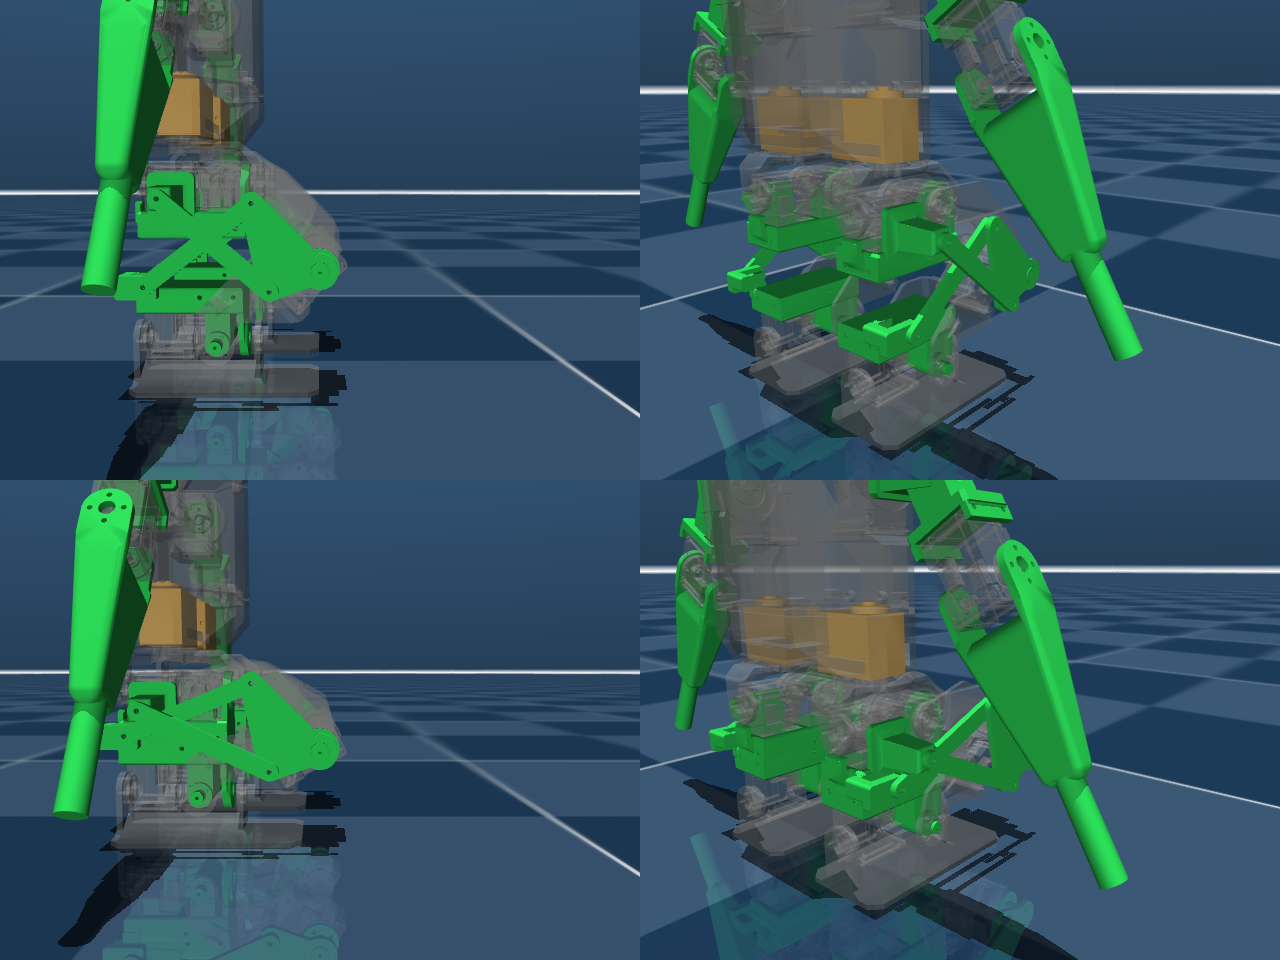
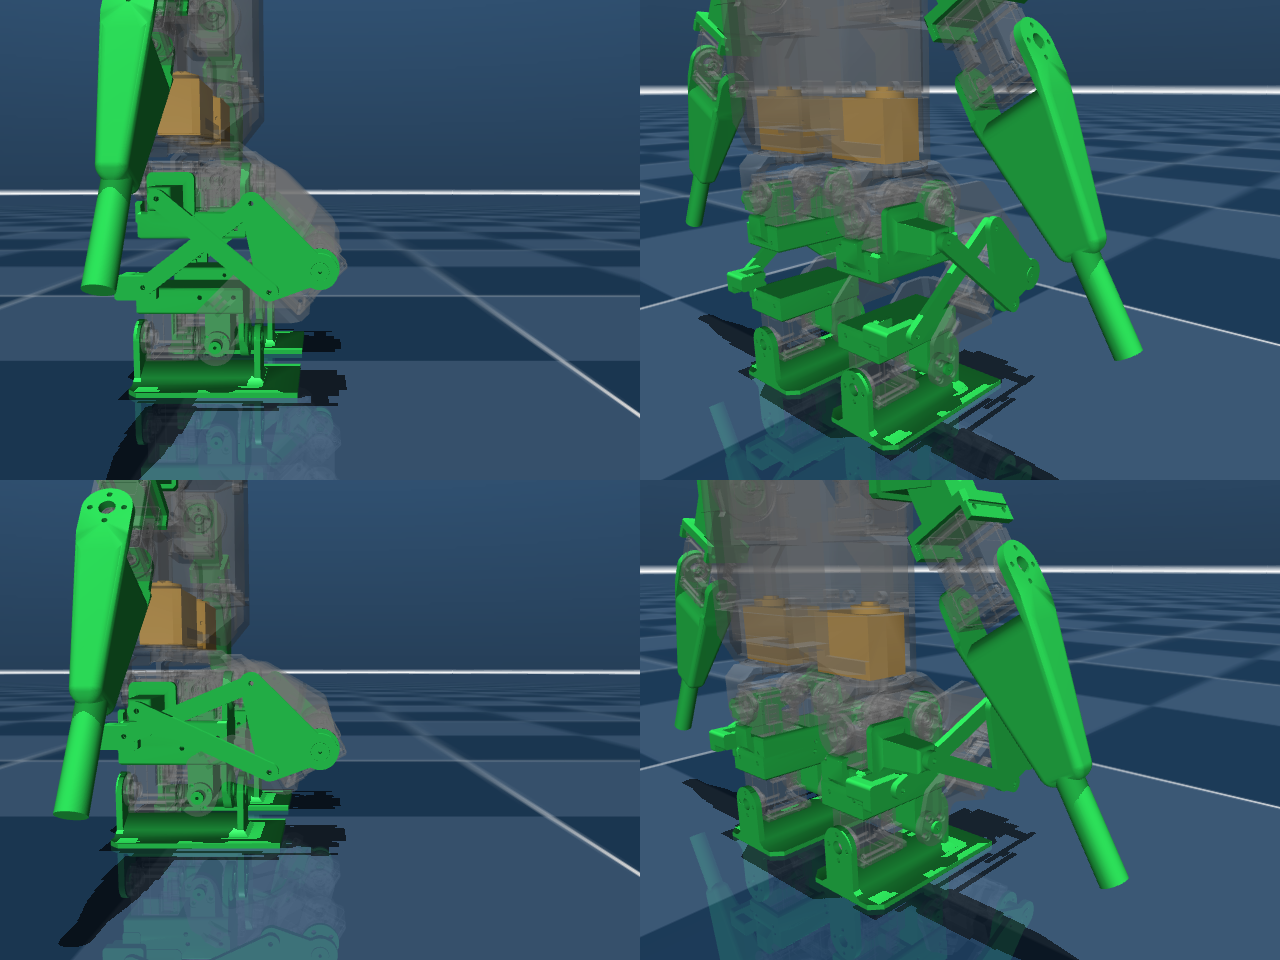
Draw the shortened foot in green
With --parts the foot mesh is swapped for parts_derived/foot_sole80 (the toe
cut to an 80 mm contact length), so the changed part shows green like every
other new or modified part; the mesh matches the cut collision plates
(x -26..54 mm in the foot frame). Docs and preview images updated.

diff --git a/tools/make_microban_pl.py b/tools/make_microban_pl.py
@@ -234,8 +234,8 @@ def main():
     PART_MESHES = ("thigh_bar", "shank_bar", "knee_yoke_right", "knee_yoke_left", "knee_axle_cap",
                    "xl330_dummy_shoulder_roll_right", "xl330_dummy_shoulder_roll_left", "xl330_dummy_neck", "xl330_dummy_hip_yaw", "xl330_dummy_ankle_hinge")
     PART_MESHES += ("shoulder_arm_simple_right", "shoulder_arm_simple_left")
-    DERIVED_MESHES = ("ankle_block_integrated_right", "ankle_block_integrated_left", "hip_block_integrated_right", "hip_block_integrated_left", "head_integrated", "radius_long")
-    NO_COLLISION = DERIVED_MESHES + ("shoulder_arm_simple_right", "shoulder_arm_simple_left")   # radius_long collides through the capsule added below   # a convex hull of these would be meaningless
+    DERIVED_MESHES = ("ankle_block_integrated_right", "ankle_block_integrated_left", "hip_block_integrated_right", "hip_block_integrated_left", "head_integrated", "radius_long", "foot_sole80")
+    NO_COLLISION = DERIVED_MESHES + ("shoulder_arm_simple_right", "shoulder_arm_simple_left")   # radius_long and foot_sole80 collide through the capsule / cut plates   # a convex hull of these would be meaningless
     if a.parts:
         for nm in PART_MESHES:
             ET.SubElement(asset, "mesh", {"name": f"part_{nm}", "file": f"{a.parts}/{nm}.stl", "scale": "0.001 0.001 0.001"})
@@ -548,6 +548,12 @@ def main():
                     g.set("size", fmt(sz)); g.set("pos", fmt(ps))
                 elif ps[2] > 0.042:                                # toe pads follow the new toe
                     ps[2] -= toe_old - toe_new; g.set("pos", fmt(ps))
+            if a.parts and not a.dummies and abs(a.sole_length - 0.080) < 1e-6:
+                # draw the shortened printed foot (parts_derived/foot_sole80, same frame as the upstream
+                # mesh) in place of Microban's foot, so the changed part shows green like the others
+                for g in list(bodies[fb].findall("geom")):
+                    if g.get("mesh", "").startswith("foot"):
+                        bodies[fb].remove(g); part(bodies[fb], "foot_sole80", vec(g.get("pos")), vec(g.get("quat", "1 0 0 0")))
 
     # actuators: drop ankle pitch (and neck), motor -> position unless asked otherwise
     act = root.find("actuator")

diff --git a/README_ja.md b/README_ja.md
@@ -69,7 +69,7 @@ docs/
   ラグで持ちます（`parts_derived/hip_block_integrated`。壁にフランジを当て、20×22 から 10×10 へ 23 mm でテーパーし、付け根はフィレット。直角の根元にしない）。
   下腿側のバーは脛の後ろで、後方 30 mm・上 30 mm（足首ロールサーボと足を避けるため。特異点 135° / 45°）。
   特異点から 8° の余裕をとり、可動域は股ピッチ −100°〜+62°、膝 −37°〜+127°（骨盤基準）です。
-- モデル上のリンクと膝ヨークは `tools/make_parts.py` の STL を緑色で描き、衝突形状（凸包）も持たせています。
+- このロボットのために新設・変更した部品はすべて緑色で描いています（サーボ形状のダミーは琥珀色、短くした足も緑）。リンクと膝ヨークには衝突形状（凸包）も持たせています。
   `tools/check_clearance.py` で可動域を走査しても他部品との干渉はありません。
 
 ## 実機で変わる部品
@@ -82,6 +82,7 @@ docs/
 | 前腕 | Microban の前腕の手先に Ø10 の棒を 40 mm 生やして延長（`parts_derived/radius_long`）。腕は肩軸から 183 mm になり、KXR や Robovie-nano に近い比率で、起き上がりの手の届きも伸びる。ROBO-ONE Light は肩軸から 26 cm まで・歩行中は手先を床から 50 mm 以上と定めており、歩行の屈んだ姿勢で腕を伸ばしても 86 mm、歩容の肘前 60° では 114 mm ある。`--forearm-ext 0` で元に戻せる | 片腕 +4 g |
 | 肩ロール | 上腕上端の XL330 を外す。肩ブラケットと上腕を 1 つの太い印刷部品にする（`parts/shoulder_arm_simple_{right,left}`）。残すのは Microban とのインターフェースだけ: 肩ピッチホーンの PCD 12 の板と、Microban の上腕プレートと同じ肘サーボの保持（XL330 の端面にねじ穴は無く、ホーン側の面とアイドラ側の面の上隅の穴にホーン軸方向の M2 4 本。天板から下がる 2 枚の短いタブ、x −45.4 / −20.0）。腕は元のロール軸まわりに 30° 回した形で、24×18 の胴（壁 3 mm、角は丸め）が板と 16×16 の柱をつなぐ。ホーンの 4 本のねじは胴を貫く Ø5 の段付き穴からドライバで締める。垂らした腕は膝のリンク積層の真上にあるので、外転させて初めて歩行で肘を前に曲げられる（歩容は前 60°）。`--arm-abduct` で角度を変えられる | −30 g |
 | 股ヨー（12 軸） | 胴体下部の XL330 2 個を外し、ダミーを入れる。14 軸ではサーボに戻す | −30 g |
+| 足 | 接地板の爪先側を 10 mm 詰めて接地長 80 mm に（ROBO-ONE Light の「脚長の 55 % 以下」）、`parts_derived/foot_sole80` | 衝突形状の板も同じ長さに |
 | リンクバー | 脚ごとに大腿バー 1 本（62.2 mm）と下腿バー 1 本（61.7 mm）、どちらも脚の後ろ、3×8 mm、M2 ピン。脚の外側で面を分けて配置 | 平行四辺形を閉じる |
 | 膝ヨーク | 膝の外側の三角板。両バーのピボットを持ち、膝軸キャップに乗る | 6 g |
 | 膝軸キャップ | 膝サーボのホーンに共締めし、Ø8 のスタブ軸を外側に出す | ヨークの軸受け |

diff --git a/README.md b/README.md
@@ -99,8 +99,8 @@ Consequences:
   30 mm above the knee and ankle axes, which lifts the ankle pivot clear of the
   ankle-roll servo and the foot (singular at 135° / 45°). Joint ranges follow
   with an 8° margin: hip −100°…+62°, knee −37°…+127° (pelvis-relative).
-- The added parts are drawn in green (mechanism) and amber (printed servo-shaped
-  spacers). The green parts also collide (convex hulls), so interference between
+- Every part that is new or changed for this robot is drawn in green (printed
+  servo-shaped spacers in amber), including the shortened foot. The green parts also collide (convex hulls), so interference between
   the mechanism and the rest of the robot shows up in simulation;
   `tools/check_clearance.py` sweeps the ranges and reports none inside them.
 
@@ -117,6 +117,7 @@ The generator edits the model to match the parts the physical conversion needs
 | Forearm | Microban's forearm is lengthened by 40 mm with a Ø10 rod grown out of the hand (`parts_derived/radius_long`): the arm is then 183 mm from the shoulder axis, closer to KXR / Robovie-nano proportions and more reach for the get-ups. ROBO-ONE Light allows 26 cm from the shoulder and wants the hands 50 mm above the floor while walking: they hang 86 mm up with straight arms in the walking crouch, 114 mm with the elbows bent as the gaits use them. `--forearm-ext 0` keeps the original. | +4 g per arm. |
 | Shoulder roll | The XL330 at the top of each humerus comes out. Shoulder bracket and upper arm become one stout printed part (`parts/shoulder_arm_simple_{right,left}`) that keeps only Microban's interfaces: the shoulder-pitch horn's PCD 12 plate, and the elbow servo held exactly as Microban's humerus plate holds it (an XL330 has no holes in its end face: four screws along the horn axis into the top corner holes of its horn-side and idler-side faces, through two short tabs at x −45.4 / −20.0), with the arm turned 30° about the former roll axis. A 24 × 18 body (3 mm walls, filleted edges) joins plate and 16 × 16 post; the four horn screws are reached through Ø5 stepped access holes along it. A hanging arm sits right over the knee's link stack; abducted, the forearm can be bent forward (60° in the gaits) like a walking human without touching it. `--arm-abduct` sets the angle. | −30 g. |
 | Hip yaw (12-servo) | The two XL330s in the bottom of the trunk come out; spacers go in. The 14-servo upgrade puts the servos back. | −30 g. No turning on the spot. |
+| Foot | The sole plate is cut back 10 mm at the toe to an 80 mm contact length (ROBO-ONE Light: at most 55 % of the leg length), `parts_derived/foot_sole80`. | Collision plates shortened to match. |
 | Link bars | Per leg one thigh bar and one shank bar, both behind the leg (62.2 / 61.7 mm between pins), 3 × 8 mm, M2 pins, outboard of the leg in separate planes. | Close the parallelogram loops. |
 | Knee yoke | A triangular plate outboard of the knee carrying both bar pivots, riding on a printed axle cap bolted to the knee servo horn. | 6 g. |
 
